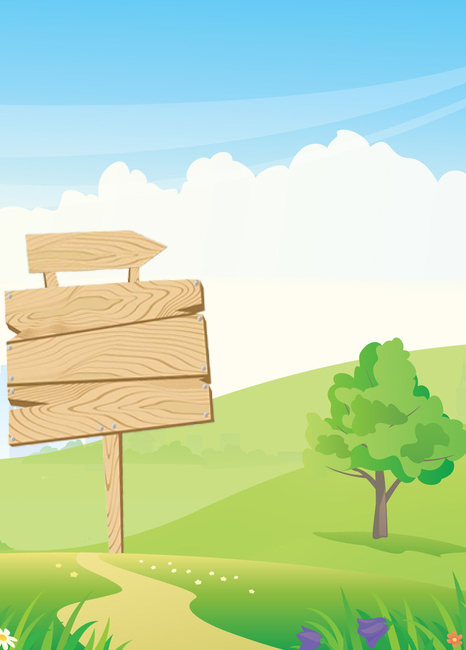
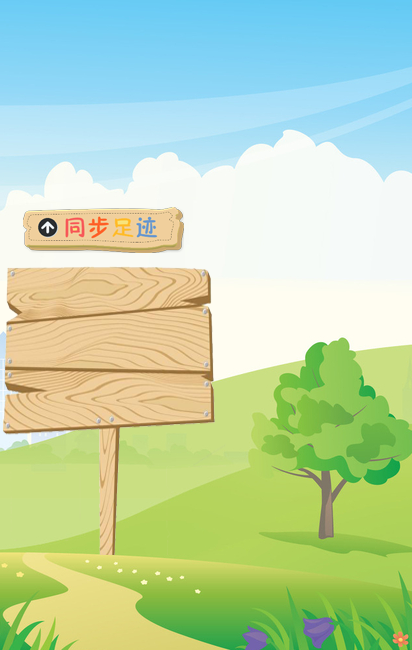
修改个人中心

diff --git a/themes/jkbl/Portal/personal.html b/themes/jkbl/Portal/personal.html
@@ -3,17 +3,17 @@
 <head>
     <tc_include file="Public:head" />
 </head>
-<body style="overflow: auto; background-image: url('__TMPL__Public/assets/images/gr.png');">
+<body style="overflow: auto; background-image: url('__TMPL__Public/assets/images/gr.png'); background-size: 100% 26.5rem;">
 
 <div>
     <tc_include file="Public:nav1" />
-    <div class="p-content">
+    <!--<div class="p-content">-->
         <img class="p-img1" src="{$userInfo->headimgurl|default='__TMPL__Public/assets/images/0.png'}" alt="">
-        <span class="p-name">{$userInfo->nickname}<eq name="status" value="0"><a class="detail-btn modaltrigger" href="#loginmodal" style=" position: relative;left: 1rem;">修改名字</a></eq></span>
+        <span class="p-name">{$userInfo->nickname}qweqwe<eq name="status" value="0"><a class="detail-btn modaltrigger" href="#loginmodal" style=" position: relative;left: 1rem;">修改名字</a></eq></span>
         <div class="p-leiji">累积</div>
         <div class="p-kilometer">{$num|default=0} <span style="font-weight: bold;color: #ffffff;">步</span></div>
-        <a class="modaltrigger p-sc" href="#sportmodal">同步足迹</a>
-    </div>
+        <a class="modaltrigger" href="#sportmodal"><div class="p-sc"></div></a>
+    <!--</div>-->
     <tc_include file="Public:footer" />
     <div id="loginmodal" class="modal" style="display:none;">
         <form id="loginform" class="form" name="loginform" method="post" action="{:U('Index/editName')}" onsubmit="return check(this)">

diff --git a/themes/jkbl/Public/assets/css/common.css b/themes/jkbl/Public/assets/css/common.css
@@ -166,11 +166,6 @@ html,body{
 }
 
 /*个人页面*/
-/*.p-content {*/
-    /*background-size: 100% 100%;*/
-    /*height: 20rem;*/
-    /*margin-top: 2.5rem;*/
-/*}*/
 .p-img1{
     display: block;
     width: 2.8rem;
@@ -178,14 +173,14 @@ html,body{
     border-radius: 50%;
     position: relative;
     z-index: 2;
-    top: 10rem;
+    top: 11.9rem;
     left: 0.7rem;
     border: 0.1rem solid #ffffff;
 }
 .p-name {
     position: relative;
     z-index: 2;
-    top: 10.5rem;
+    top: 12.3rem;
     left: 1rem;
     font-size: 0.7rem;
     color: #00658d;
@@ -194,8 +189,8 @@ html,body{
 .p-kilometer {
     position: relative;
     z-index: 2;
-    top: 5.9rem;
-    left: 3.5rem;
+    top: 7.7rem;
+    left: 3.7rem;
     font-size: 0.7rem;
     color: #00658d;
     width: 3rem;
@@ -204,9 +199,9 @@ html,body{
 }
 .p-leiji {
     position: relative;
-    top: 5.7rem;
+    top: 7.5rem;
     left: 3.5rem;
-    font-size: 1rem;
+    font-size: 1.2rem;
     color: #ffffff;
     width: 3rem;
     text-align: center;
@@ -214,13 +209,10 @@ html,body{
 }
 .p-sc {
     position: relative;
-    top: 1.5rem;
+    top: 2rem;
     left: 1rem;
-    font-size: 0.9rem;
-    color: #ffffff;
-    width: 5rem;
-    text-align: center;
-    font-weight: bold;
+    width: 5.3rem;
+    height: 1.5rem;
 }
 .detail-btn {
     background: #18abe1;

diff --git a/application/Portal/Controller/IndexController.class.php b/application/Portal/Controller/IndexController.class.php
@@ -460,7 +460,7 @@ class IndexController extends HomebaseController
     public function personal()
     {
         $userInfo = $this->checkLogin();
-//                $userInfo->openid='admin';
+//        $userInfo->openid='admin';
         $map['openid'] = $userInfo->openid;
         $num = D('sport_record')->where($map)->sum('step_nums');
         $umap['user_login'] = $userInfo->openid;
